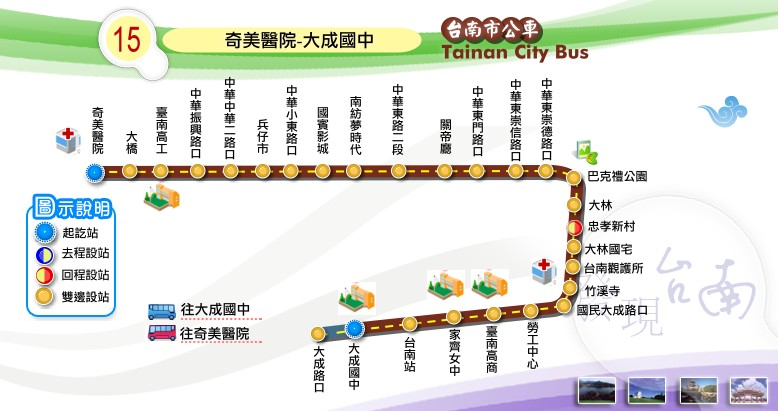
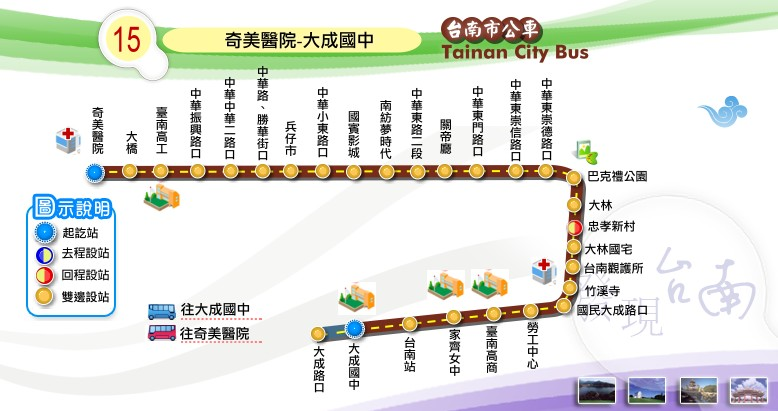
站位更新：黃6新增「後鎮派出所」、「鎮安堂」；15路新增「中華路、勝華街口」

Changed region(s): [[0.3085, 0.1752, 0.5553, 0.4672]]

diff --git a/yellow/yellow_6.html b/yellow/yellow_6.html
@@ -23,7 +23,8 @@
 	block_route_map(null);
 	block_route_info(route_interval,'新營客運','','里程計費','http://2384.tainan.gov.tw:8080/AGPSRemoteQuery3/ajaxBus.jsp?pathId=1506&locale=zh_TW',[['平日','normal'],['假日','holiday']]);
 	block_fare(0, null);
-	block_multiple_time_schedule( [['平日班表','normal'],['假日班表','holiday']], '<font color="blue">往後壁方向終點為後壁火車站，不經後壁區公所<br />往新營方向起點為後壁區公所，不經後壁火車站</font>');
+	block_multiple_time_schedule( [['平日班表','normal'],['假日班表','holiday']], '<font color="blue">往後壁方向終點為後壁火車站，不經後壁區公所<br />往新營方向起點為後壁區公所，不經後壁火車站</font>\
+		<h3>「<font color="red">繞</font>」表示繞駛鎮安堂</h3>');
 	block_transfer(transfer_hsinyin + transfer_houbi_railway_station);
 	block_copyright();
 </script>
